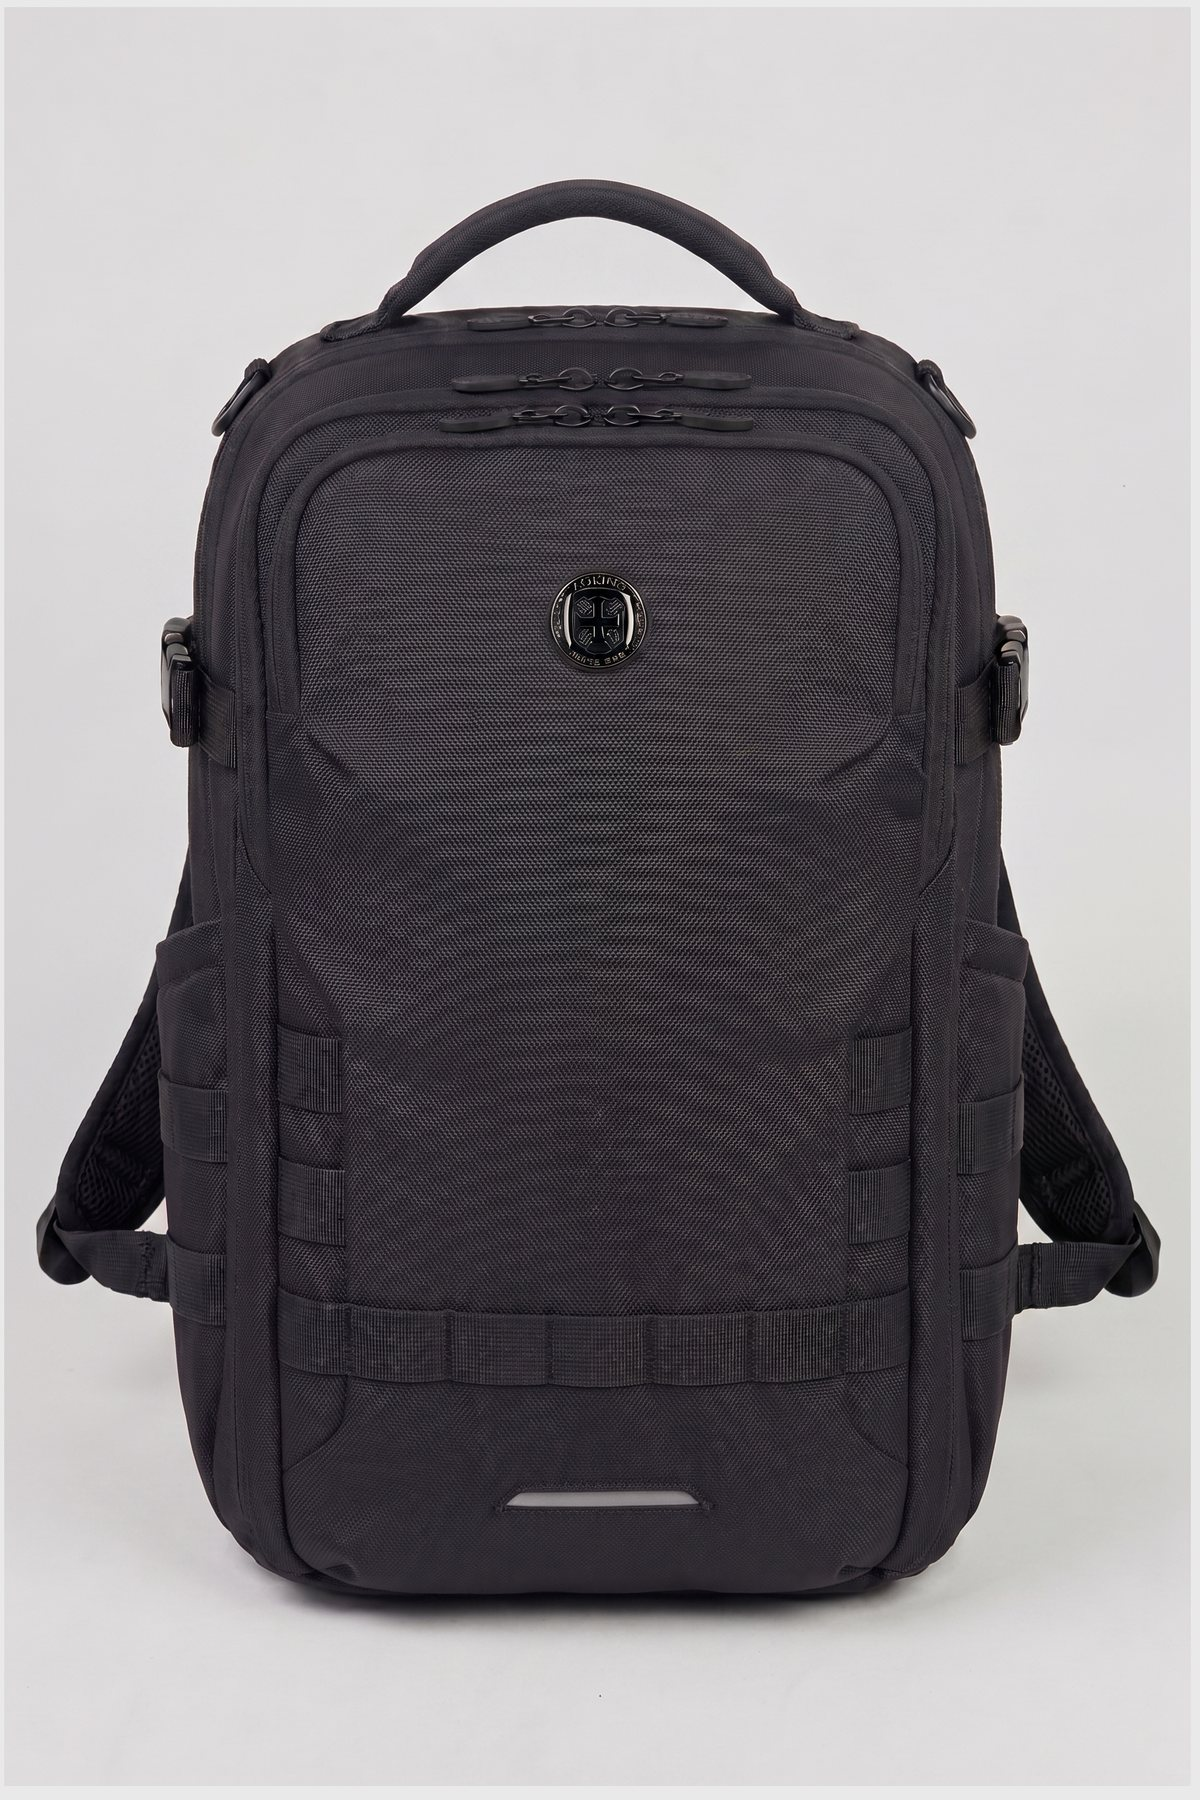
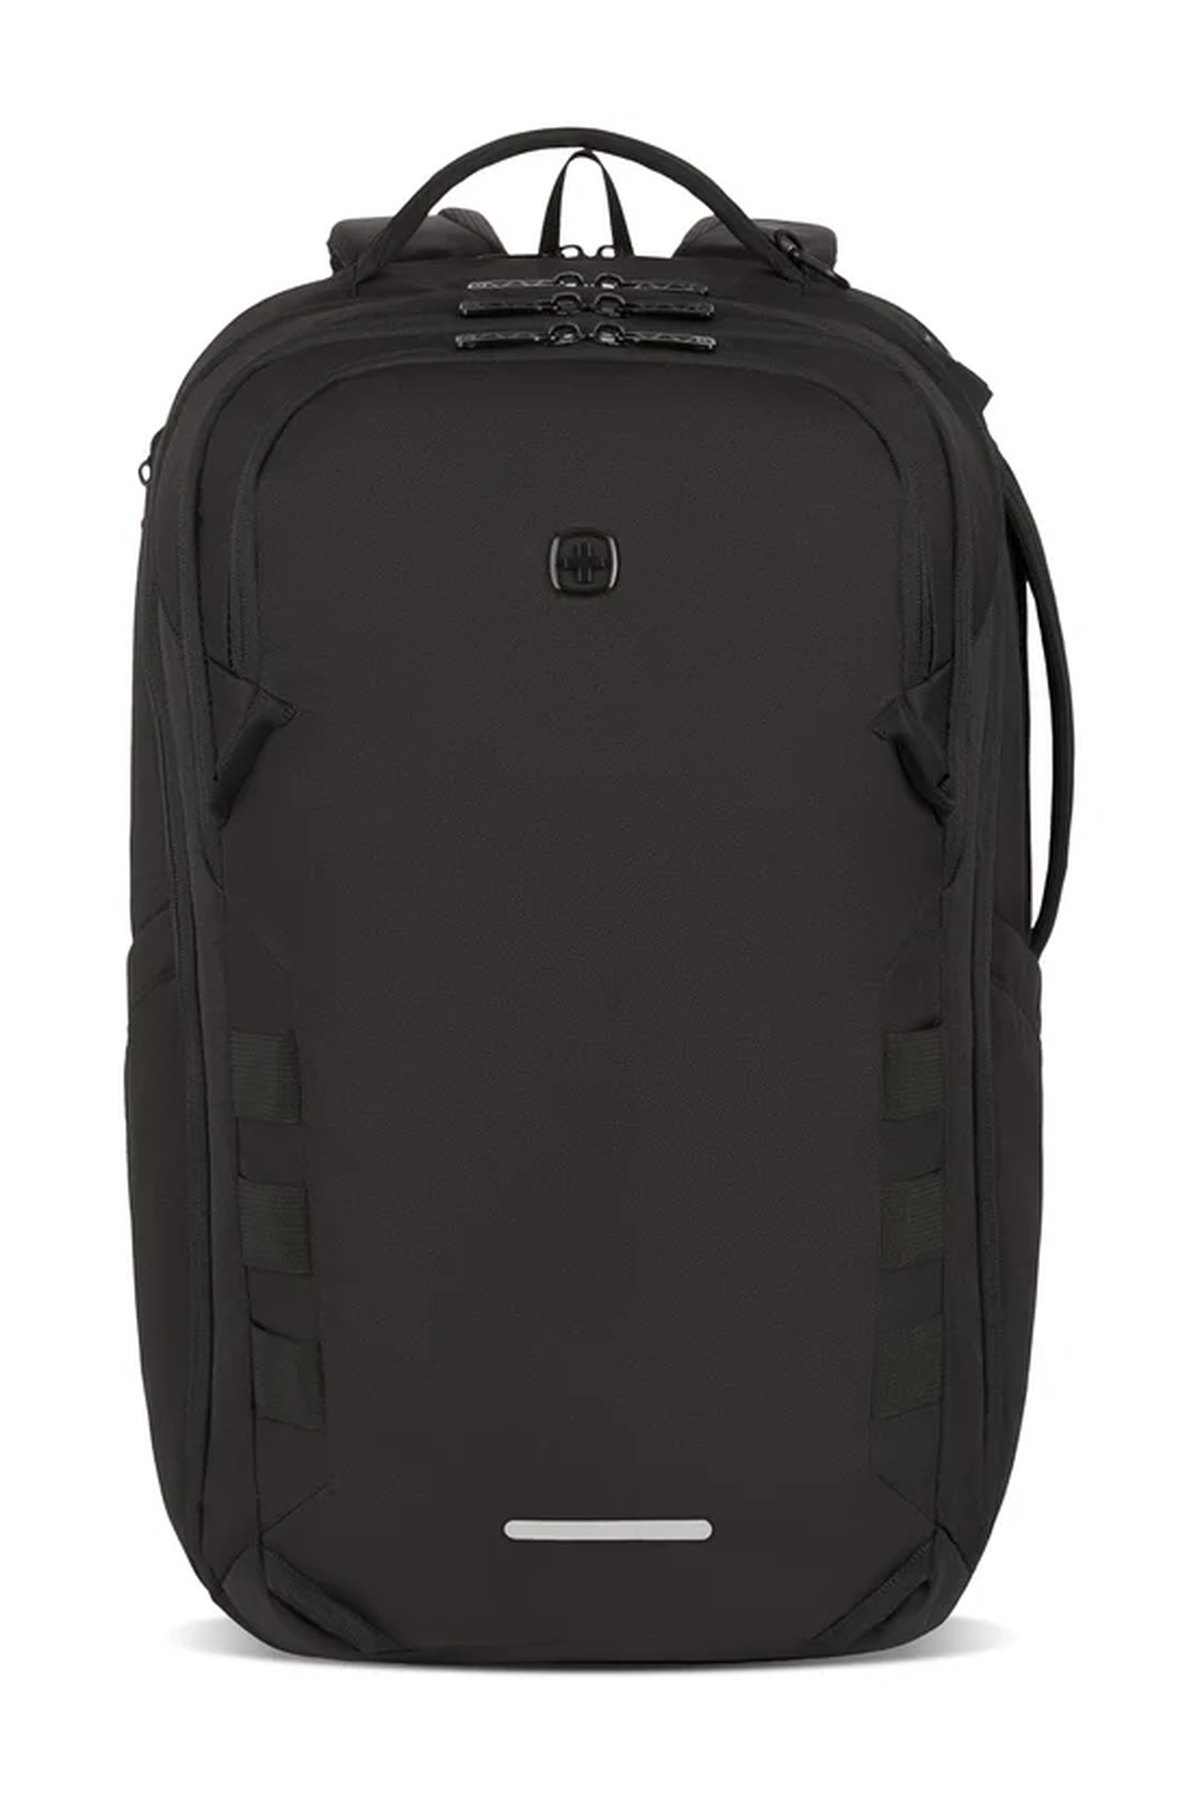
Adaptar las tres fotos nuevas del 360
left.webp, Front.webp y rigt.jpg pasan a ser 01, 02 y 03: mismo encuadre, misma
escala y 1200x1800, y rigt.jpg baja de 2.6MB a 350KB.

Dos ajustes al normalizador que hacian falta para estas fotos:

- El recorte se calculaba solo por el alto de la mochila. En una vista de perfil
  la mochila es mas ancha que alta y quedaba partida por los lados; ahora el
  recorte cabe en los dos ejes y se toma el que mande.
- El color de relleno estaba fijo en el gris de las fotos anteriores. Estas
  vienen sobre blanco puro, asi que dejaba una banda gris al rellenar; ahora se
  toma de la esquina de cada foto.

Las zonas se remidieron sobre las fotos ya normalizadas, que ademas son de otro
modelo de mochila: el frontal ya no tiene la parrilla MOLLE y los costados son
perfiles completos en vez de tres cuartos. En los perfiles ya no se declara
main_front, porque el panel frontal no se ve.

Verificado con ?zones=1: las ocho zonas caen sobre tela limpia.

Claude-Session: https://claude.ai/code/session_01LXY9TbeoNzeHppz7iZdY8X

diff --git a/src/lib/pack-frames.ts b/src/lib/pack-frames.ts
@@ -36,34 +36,32 @@ export interface PackFrame {
 
 export const FRAMES: PackFrame[] = [
   {
-    // Frente en tres cuartos: se ve el panel frontal y el costado izquierdo.
+    // Perfil izquierdo: se ve el costado completo, no el panel frontal.
     src: "/pack/360/01.jpg",
     label: "Left side",
     zones: {
-      main_front: { x: 28, y: 51, w: 24, h: 8, rotate: 8, skew: 6, opacity: 0.95 },
-      left_top: { x: 62, y: 42, w: 13, h: 5.5, rotate: -3, skew: -4 },
-      left_mid: { x: 63, y: 54, w: 13, h: 5.5, rotate: -3, skew: -4 },
-      left_bottom: { x: 68, y: 66, w: 12, h: 5, rotate: -3, skew: -4 },
+      left_top: { x: 30, y: 37, w: 17, h: 6, rotate: 2, skew: 2 },
+      left_mid: { x: 38, y: 46, w: 16, h: 6, rotate: 2, skew: 2 },
+      left_bottom: { x: 37, y: 69, w: 17, h: 6, rotate: 2, skew: 2 },
     },
   },
   {
-    // Frente plano: el panel frontal a tamano completo.
+    // Frente plano.
     src: "/pack/360/02.jpg",
     label: "Front",
     zones: {
-      main_front: { x: 50, y: 49, w: 28, h: 10 },
-      front_pocket: { x: 50, y: 66, w: 20, h: 5.5 },
+      main_front: { x: 49, y: 50, w: 30, h: 10 },
+      front_pocket: { x: 49, y: 72, w: 24, h: 6 },
     },
   },
   {
-    // Tres cuartos del otro lado: panel frontal y costado derecho.
+    // Perfil derecho.
     src: "/pack/360/03.jpg",
     label: "Right side",
     zones: {
-      right_top: { x: 39, y: 33, w: 14, h: 5.5, rotate: -6, skew: -5 },
-      right_mid: { x: 39, y: 51, w: 14, h: 5.5, rotate: -6, skew: -5 },
-      right_bottom: { x: 39, y: 61, w: 14, h: 5.5, rotate: -6, skew: -5 },
-      main_front: { x: 75, y: 49, w: 23, h: 8, rotate: 6, skew: 5, opacity: 0.95 },
+      right_top: { x: 36, y: 28, w: 17, h: 6, rotate: -1, skew: -2 },
+      right_mid: { x: 38, y: 48, w: 16, h: 6, rotate: -1, skew: -2 },
+      right_bottom: { x: 39, y: 75, w: 17, h: 6, rotate: -1, skew: -2 },
     },
   },
 ];
